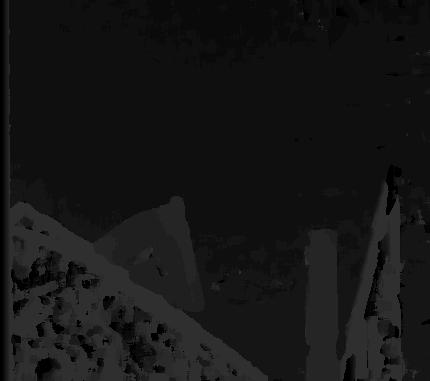
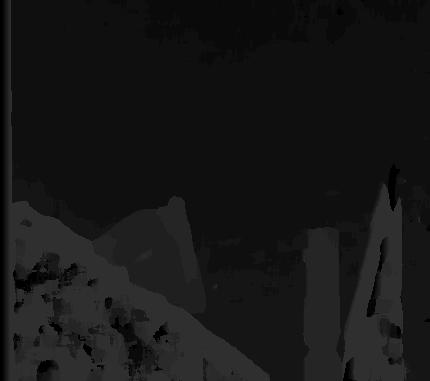
构建类库 测试性能改进算法 并没有卵用...

diff --git a/stero_vision/script/stereo_test_6.py b/stero_vision/script/stereo_test_6.py
@@ -8,79 +8,114 @@ Created on Mon Jul 04 15:25:30 2016
 from common import get_data_set, show_image, save_image
 import numpy as np
 
-data_set = get_data_set(0)
-# get data
-left = data_set['left']
-right = data_set['right']
-result = data_set['result']
-my_result = np.zeros(left.shape)
-# 必须为奇数
-window_size = 13
 
-sad_size = [window_size, ]
-sad_size.extend(left.shape)
-# sad 计算结果
-sad_result = np.zeros(sad_size)
-# sad 检测标志
-sad_flag = np.zeros(left.shape, dtype=np.bool)
+class StereoVisionBM1:
+    def __init__(self, left, right, window_size=13, d_max=10):
+        self.left = left
+        self.right = right
+        self.my_result = np.zeros(left.shape, dtype=np.int16)
+        (self.row_length, self.column_length) = left.shape
+        self.left_extend = self.make_border(self.left)
+        self.right_extend = self.make_border(self.right)
+        self.window_size = window_size
+        self.d_max = d_max
 
-(row_length, pixel_length) = left.shape
+        sad_size = [d_max, ]
+        sad_size.extend(left.shape)
+        # sad 计算结果
+        self.sad_result = np.zeros(sad_size)
 
+        self.used_window_compare_method = self.default_window_compare_method
 
-def make_border(image):
-    new_image = image
+    @staticmethod
+    def make_border(image):
+        new_image = image
 
-    top = image[0]
-    bottum = image[-1]
-    top = np.tile(top, (window_size / 2, 1))
-    bottum = np.tile(bottum, (window_size / 2, 1))
-    new_image = np.row_stack((top, new_image))
-    new_image = np.row_stack((new_image, bottum))
+        top = image[0]
+        bottum = image[-1]
+        top = np.tile(top, (window_size / 2, 1))
+        bottum = np.tile(bottum, (window_size / 2, 1))
+        new_image = np.row_stack((top, new_image))
+        new_image = np.row_stack((new_image, bottum))
 
-    left = new_image[:, 0:1]
-    right = new_image[:, -2:-1]
+        left = new_image[:, 0:1]
+        right = new_image[:, -2:-1]
 
-    left = np.tile(left, (1, window_size + window_size / 2))
-    right = np.tile(right, (1, window_size + window_size / 2))
-    # left = np.tile(left, (1, window_size / 2))
-    # right = np.tile(right, (1, window_size / 2))
+        left = np.tile(left, (1, d_max + window_size / 2))
+        right = np.tile(right, (1, d_max + window_size / 2))
 
-    new_image = np.column_stack((left, new_image))
-    new_image = np.column_stack((new_image, right))
+        new_image = np.column_stack((left, new_image))
+        new_image = np.column_stack((new_image, right))
 
-    return new_image
+        return new_image
 
+    def get_sad_window(self, row, column, d):
+        # 由于向左右延展了window_size
+        window_left = self.left_extend[row:row + self.window_size, column + d_max: column + d_max + self.window_size]
+        window_right = self.right_extend[row:row + self.window_size,
+                       column + d_max - d: column + d_max + self.window_size - d]
+        sad = 0
+        # 加速并没有卵用 所以隐去
+        '''if row > 0 and column > 0:
+            sad_last = sad_result[d][row - 1][column]
+            window_left_last = left[row - 1][column + d_max: column + d_max + self.window_size]
+            window_right_last = right[row - 1][column + d_max - d: column + d_max + self.window_size - d]
+            window_left_new = left[row + self.window_size-1][column + d_max: column + d_max + self.window_size ]
+            window_right_new = right[row + self.window_size-1][column + d_max - d: column + d_max + self.window_size - d]
+            sad = sad_last - np.sum(np.absolute(window_left_last - window_right_last)) + np.sum(np.absolute(
+                window_left_new - window_right_new))
+        else:
+            sad = np.sum(np.absolute(window_left - window_right))
+        '''
+        sad = self.used_window_compare_method(window_left, window_right)
+        self.sad_result[d][row][column] = sad
+        return sad
 
-left_new = make_border(left)
-right_new = make_border(right)
+    def get_sad_d(self, d):
+        for row in np.arange(self.row_length):
+            for column in np.arange(self.column_length):
+                self.get_sad_window(row, column, d)
+        return self.sad_result[d]
 
+    def get_sad_all(self):
+        for d in np.arange(d_max):
+            self.get_sad_d(d)
+        return self.sad_result
 
-def get_sad(left, right, x, y, d):
-    if x > 0 and y > 0:
-        pass
-    window_left = left[x - window_size / 2:x + window_size / 2 + 1,
-                  y - window_size / 2:y + window_size / 2 + 1]
-    window_right = right[x - window_size / 2:x + window_size / 2 + 1,
-                   y - window_size / 2 - d:y + window_size / 2 + 1 - d]
-    return np.sum(np.absolute(window_left - window_right))
+    def get_result(self):
+        for row in np.arange(self.row_length):
+            for column in np.arange(self.column_length):
+                min_sad = 0
+                for d in np.arange(1, self.d_max):
+                    if self.sad_result[min_sad][row][column] > self.sad_result[d][row][column]:
+                        min_sad = d
+                self.my_result[row][column] = min_sad
+        return self.my_result
+
+    @staticmethod
+    def default_window_compare_method(window_1, window_2):
+        return np.sum(np.absolute(window_1 - window_2))
+
+    def set_window_compare_method(self, method):
+        self.used_window_compare_method = method
 
 
 if __name__ == '__main__':
-    left_new = make_border(left)
-    right_new = make_border(right)
-    for d in np.arange(window_size):
-        for x in np.arange(row_length):
-            for y in np.arange(pixel_length):
-                sad = get_sad(left_new, right_new, x + window_size / 2, y + window_size + window_size / 2, d)
-                sad_result[d][x][y] = sad
+    data_set = get_data_set(0)
+    # get data
+    left = data_set['left']
+    right = data_set['right']
+    result = data_set['result']
+    import time
 
-    for x in np.arange(row_length):
-        for y in np.arange(pixel_length):
-            min_sad = 0
-            for d in np.arange(1, window_size):
-                if sad_result[min_sad][x][y] > sad_result[d][x][y]:
-                    min_sad = d
-            my_result[x][y] = min_sad * 255 / 13
+    window_size = 13
+    d_max = 10
+    tt = time.time()
+    stereo = StereoVisionBM1(left, right, window_size, d_max)
+    stereo.get_sad_all()
+    my_result = stereo.get_result()
+    my_result = my_result * 255 / d_max
     data_set['my_result_6'] = my_result
+    print time.time() - tt
     save_image(my_result, 'window method 6')
     show_image(data_set)
